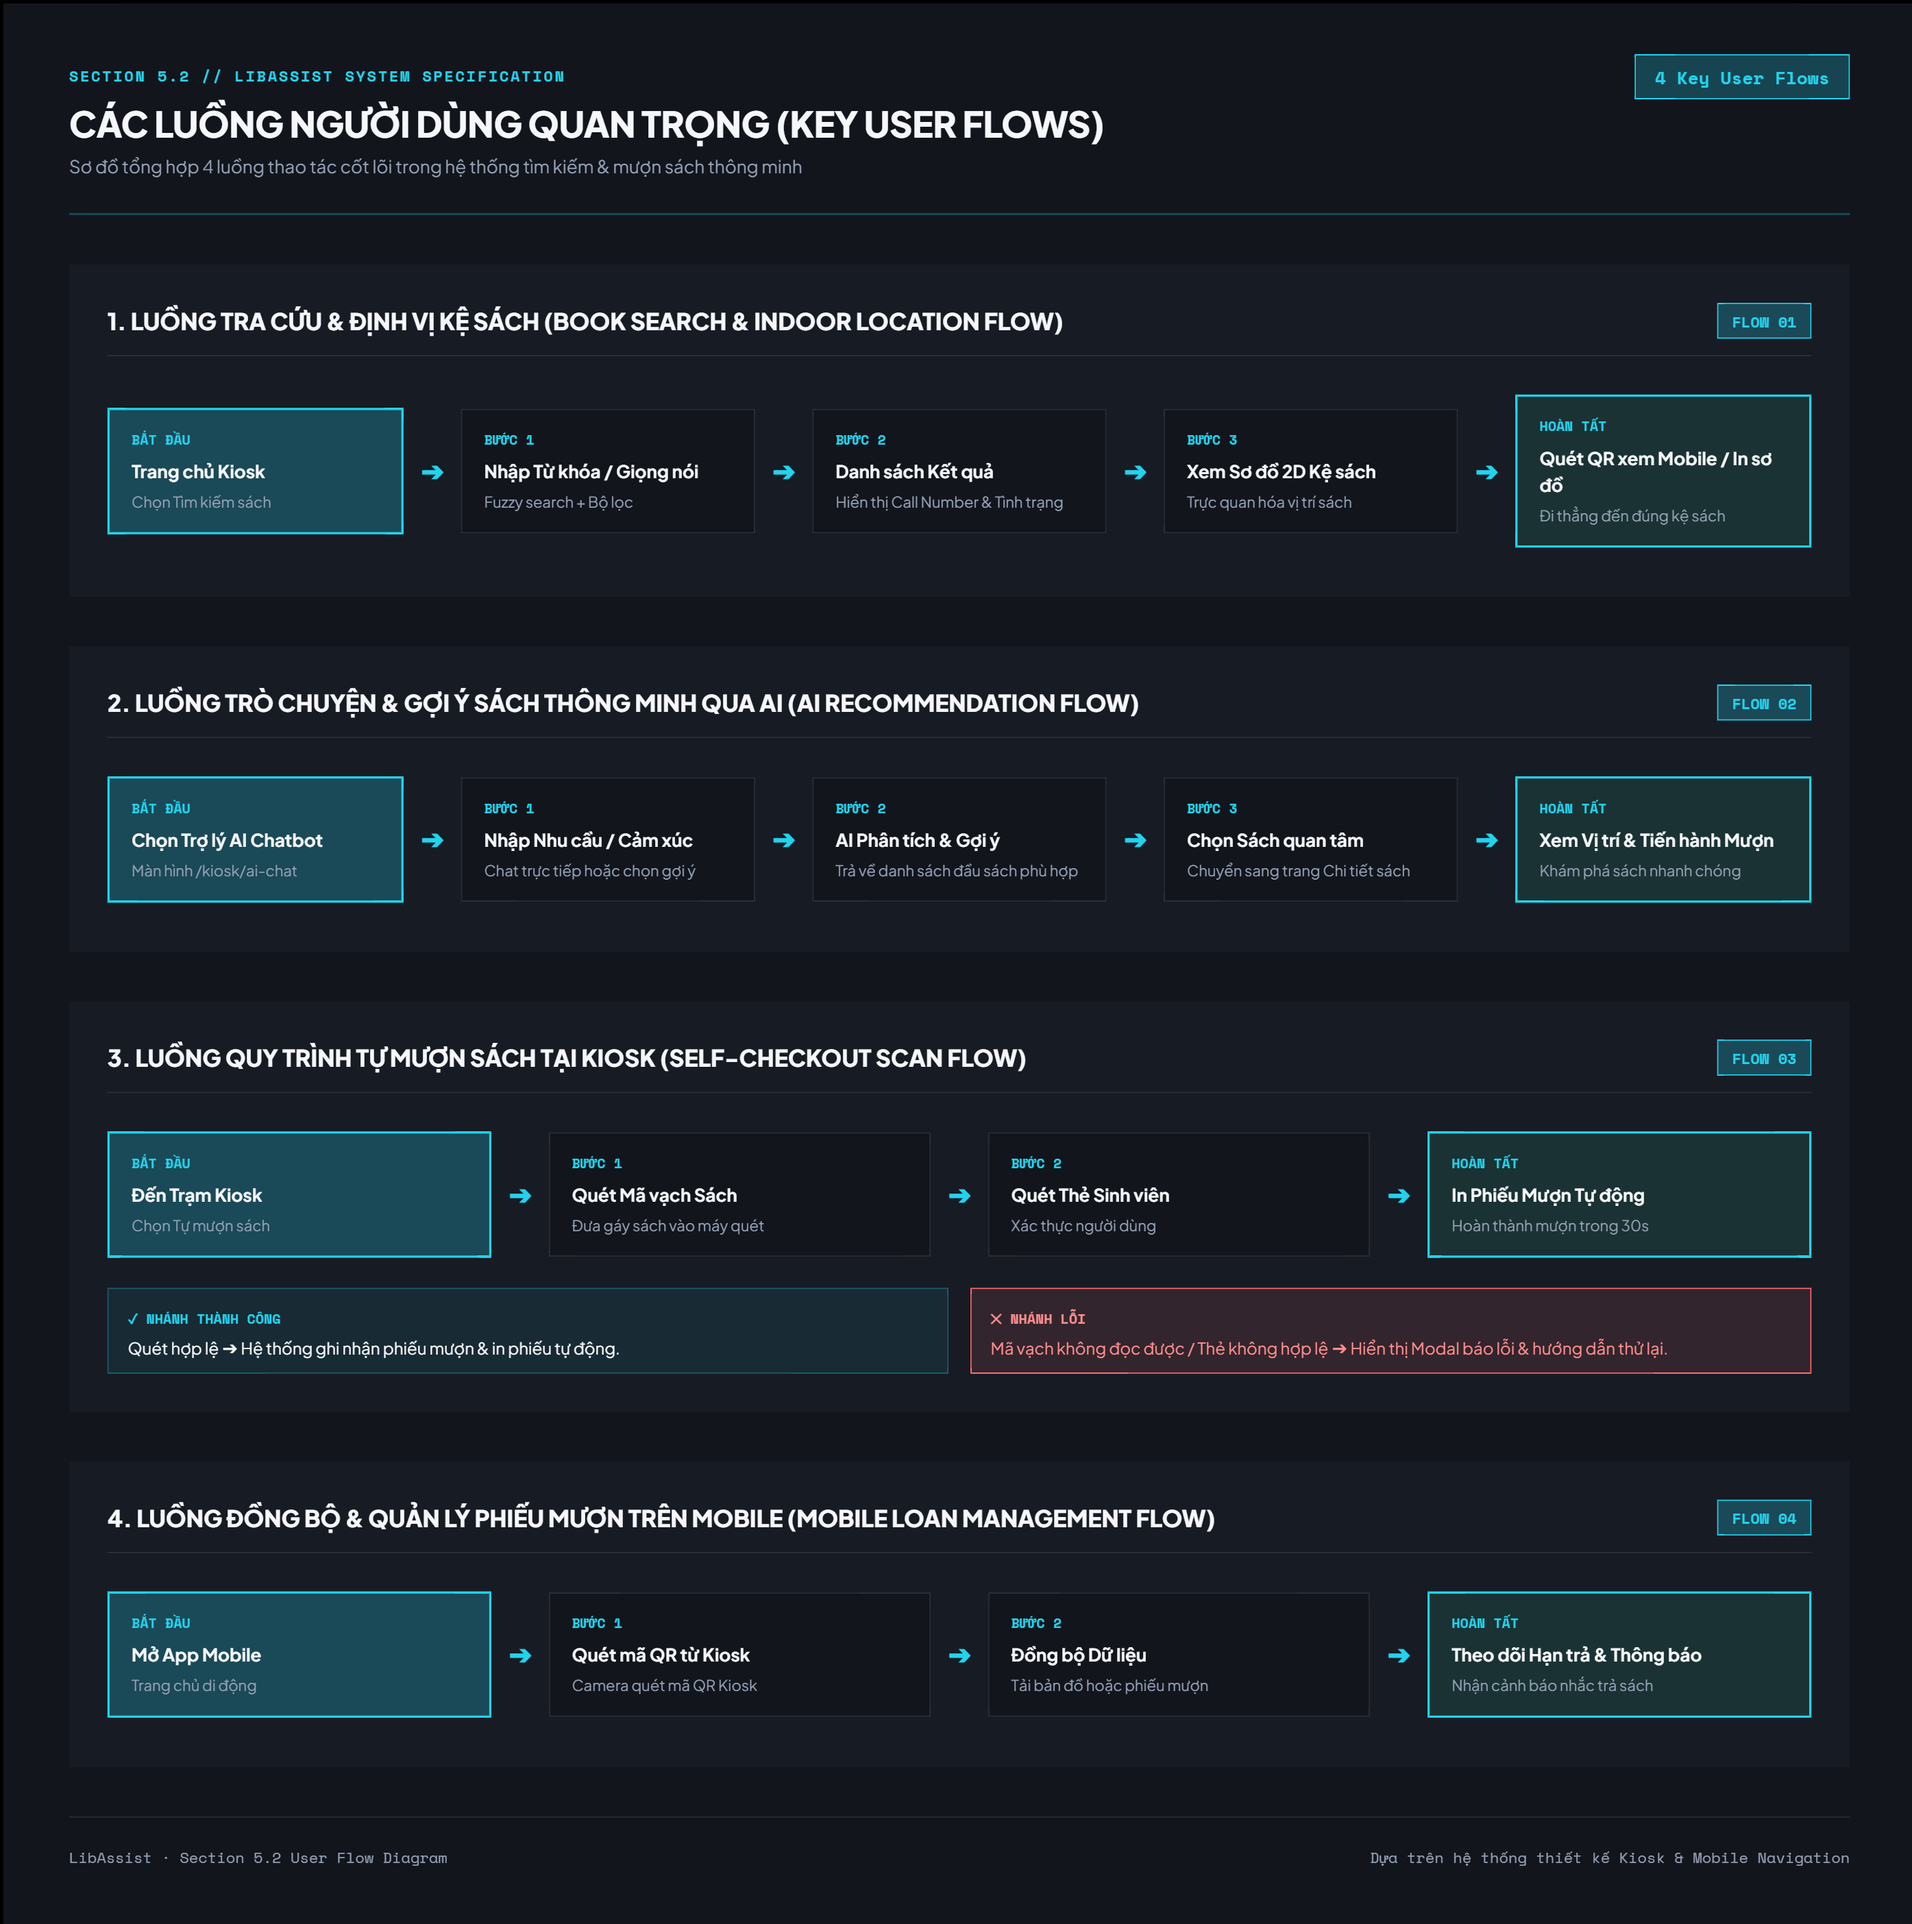
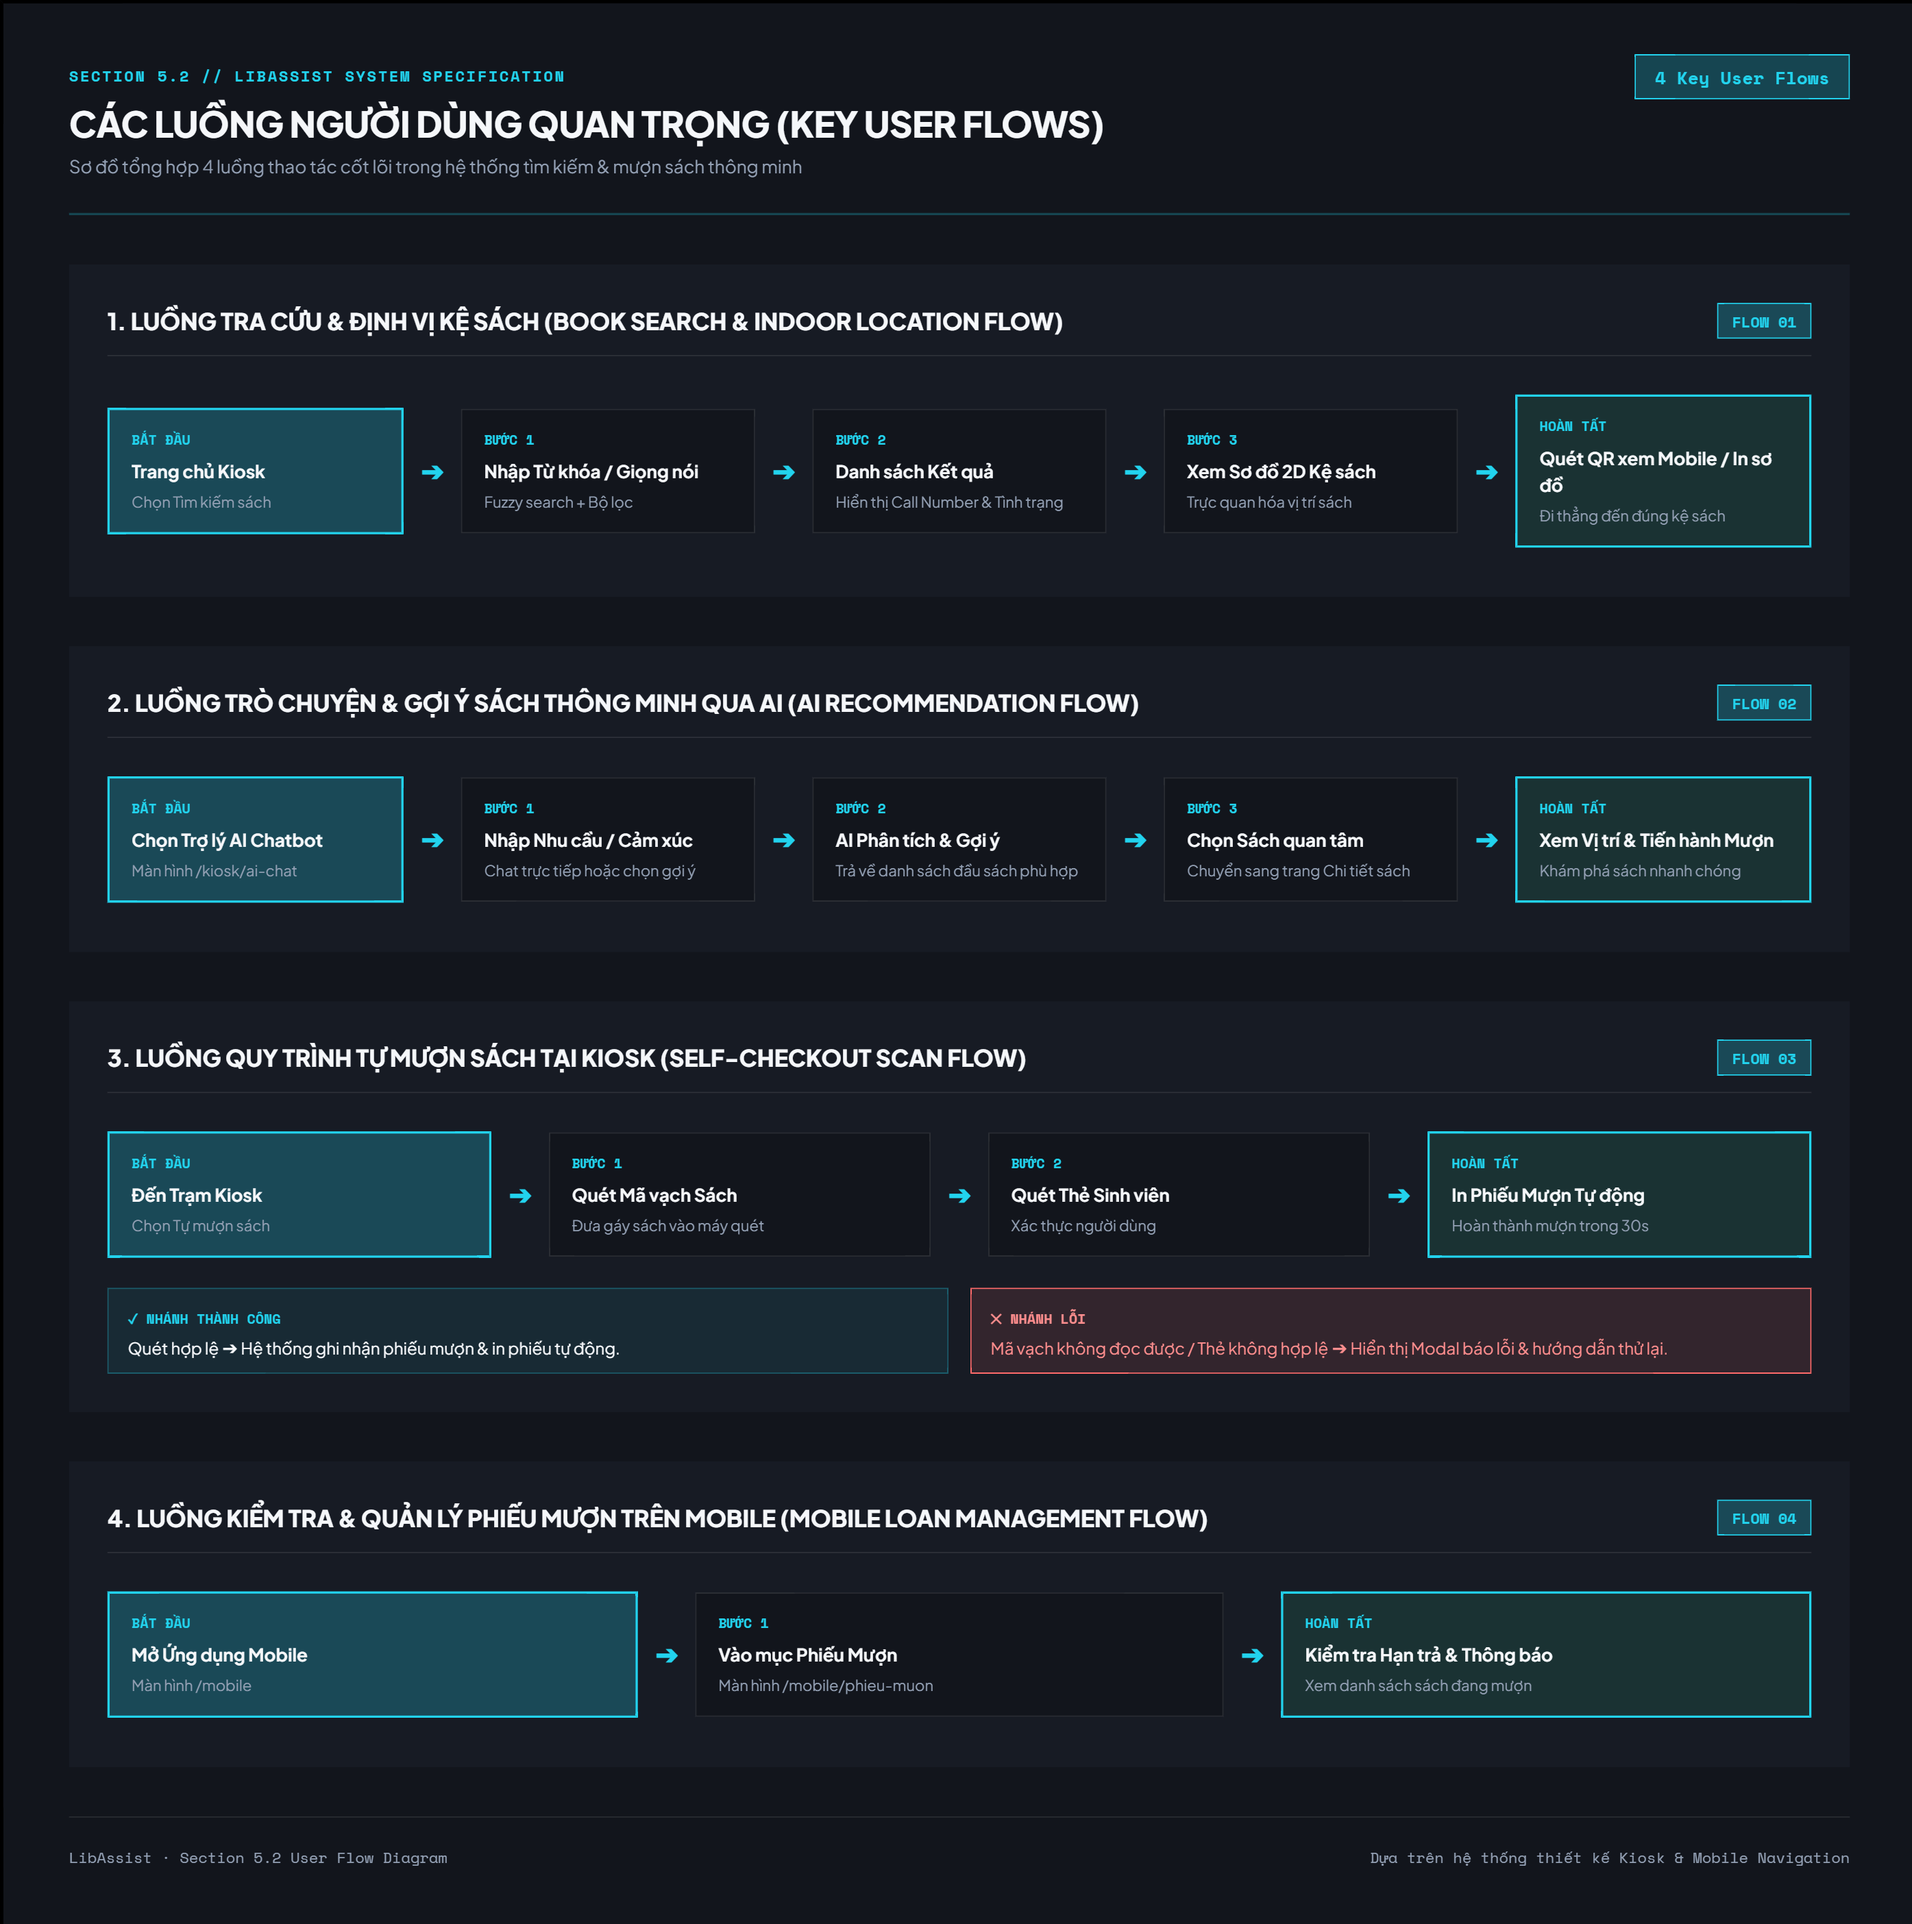
Cập nhật user flow

diff --git a/report/diagramdrawing/user_flows.html b/report/diagramdrawing/user_flows.html
@@ -434,42 +434,34 @@ body {
       </div>
     </div>
 
-    <!-- FLOW 4: MOBILE SYNC & MANAGEMENT -->
+    <!-- FLOW 4: MOBILE LOAN MANAGEMENT -->
     <div class="flow-card">
       <div class="flow-header">
-        <span class="flow-title">4. Luồng Đồng bộ & Quản lý Phiếu mượn trên Mobile (Mobile Loan Management Flow)</span>
+        <span class="flow-title">4. Luồng Kiểm tra & Quản lý Phiếu mượn trên Mobile (Mobile Loan Management Flow)</span>
         <span class="flow-num">FLOW 04</span>
       </div>
 
       <div class="horizontal-flow">
         <div class="step-node step-node-start">
           <span class="step-badge">BẮT ĐẦU</span>
-          <span class="step-text">Mở App Mobile</span>
-          <span class="step-sub">Trang chủ di động</span>
+          <span class="step-text">Mở Ứng dụng Mobile</span>
+          <span class="step-sub">Màn hình /mobile</span>
         </div>
 
         <span class="arrow-r">➔</span>
 
         <div class="step-node">
           <span class="step-badge">BƯỚC 1</span>
-          <span class="step-text">Quét mã QR từ Kiosk</span>
-          <span class="step-sub">Camera quét mã QR Kiosk</span>
-        </div>
-
-        <span class="arrow-r">➔</span>
-
-        <div class="step-node">
-          <span class="step-badge">BƯỚC 2</span>
-          <span class="step-text">Đồng bộ Dữ liệu</span>
-          <span class="step-sub">Tải bản đồ hoặc phiếu mượn</span>
+          <span class="step-text">Vào mục Phiếu Mượn</span>
+          <span class="step-sub">Màn hình /mobile/phieu-muon</span>
         </div>
 
         <span class="arrow-r">➔</span>
 
         <div class="step-node step-node-end">
           <span class="step-badge">HOÀN TẤT</span>
-          <span class="step-text">Theo dõi Hạn trả & Thông báo</span>
-          <span class="step-sub">Nhận cảnh báo nhắc trả sách</span>
+          <span class="step-text">Kiểm tra Hạn trả & Thông báo</span>
+          <span class="step-sub">Xem danh sách sách đang mượn</span>
         </div>
       </div>
     </div>

diff --git a/report/diagramdrawing/user_flows.md b/report/diagramdrawing/user_flows.md
@@ -15,7 +15,7 @@ Hệ thống tập trung vào **4 luồng người dùng quan trọng (Key User 
 1. **Luồng 1: Tra cứu Sách & Định vị Kệ sách 2D (Book Search & Indoor Location Flow)**
 2. **Luồng 2: Trò chuyện & Gợi ý Sách thông minh qua AI (AI Recommendation Flow)**
 3. **Luồng 3: Quy trình Tự Mượn sách tại Kiosk (Self-Checkout Scan Flow)**
-4. **Luồng 4: Đồng bộ & Quản lý Phiếu mượn trên Mobile (Mobile Companion Flow)**
+4. **Luồng 4: Kiểm tra & Quản lý Phiếu mượn trên Mobile (Mobile Loan Management Flow)**
 
 ---
 
@@ -107,10 +107,10 @@ flowchart TD
 
 ---
 
-### 4. Luồng Đồng bộ & Quản lý Phiếu mượn trên Mobile (Mobile Companion Flow)
+### 4. Luồng Kiểm tra & Quản lý Phiếu mượn trên Mobile (Mobile Loan Management Flow)
 
 #### Mô tả luồng:
-Sinh viên mở ứng dụng di động **LibAssist Mobile Companion**. Sử dụng tính năng quét mã QR để tải sơ đồ dẫn đường 2D (Indoor turn-by-turn navigation) từ Kiosk sang điện thoại hoặc lưu thông tin phiếu mượn. Ứng dụng tự động theo dõi thời hạn trả sách (Due Date) và gửi thông báo nhắc nhở tự động trước khi tới hạn.
+Sinh viên mở ứng dụng di động **LibAssist Mobile Companion** để tra cứu cá nhân. Bản chất sinh viên chỉ cần mở ứng dụng và truy cập mục **Phiếu mượn** (`/mobile/phieu-muon`) để kiểm tra danh sách các sách đang mượn, theo dõi hạn trả (Due Date) và nhận các thông báo nhắc nhở trả sách tự động.
 
 #### Sơ đồ Luồng 4 (Mermaid Diagram):
 ```mermaid
@@ -119,15 +119,11 @@ flowchart TD
     classDef step fill:#171B24,stroke:#22D3EE,stroke-width:1px,color:#F5F7FA;
 
     START(["▶ Mở App Mobile LibAssist (/mobile)"]):::startEnd
-    QR["📷 Mở Camera quét mã QR hiển thị từ Kiosk (/mobile/qr)"]:::step
-    BRANCH1["🗺 Tải Bản đồ Chỉ đường Kệ sách (/mobile/location)"]:::step
-    BRANCH2["📄 Tải & Lưu Phiếu mượn (/mobile/phieu-muon)"]:::step
-    NOTIFY["🔔 Hệ thống gửi Thông báo tự động nhắc hạn trả"]:::step
-    FINISH(["■ Quản lý lịch sử mượn & Chủ động trả sách đúng hạn"]):::startEnd
+    NAV["📄 Chọn mục Phiếu Mượn (/mobile/phieu-muon)"]:::step
+    VIEW["📋 Xem danh sách sách đang mượn & Hạn trả (Due Dates)"]:::step
+    FINISH(["■ Kiểm tra trạng thái & Nhận thông báo nhắc trả tự động"]):::startEnd
 
-    START --> QR
-    QR -- "Mã QR Bản đồ" --> BRANCH1 --> NOTIFY --> FINISH
-    QR -- "Mã QR Phiếu mượn" --> BRANCH2 --> NOTIFY --> FINISH
+    START --> NAV --> VIEW --> FINISH
 ```
 
 ---
